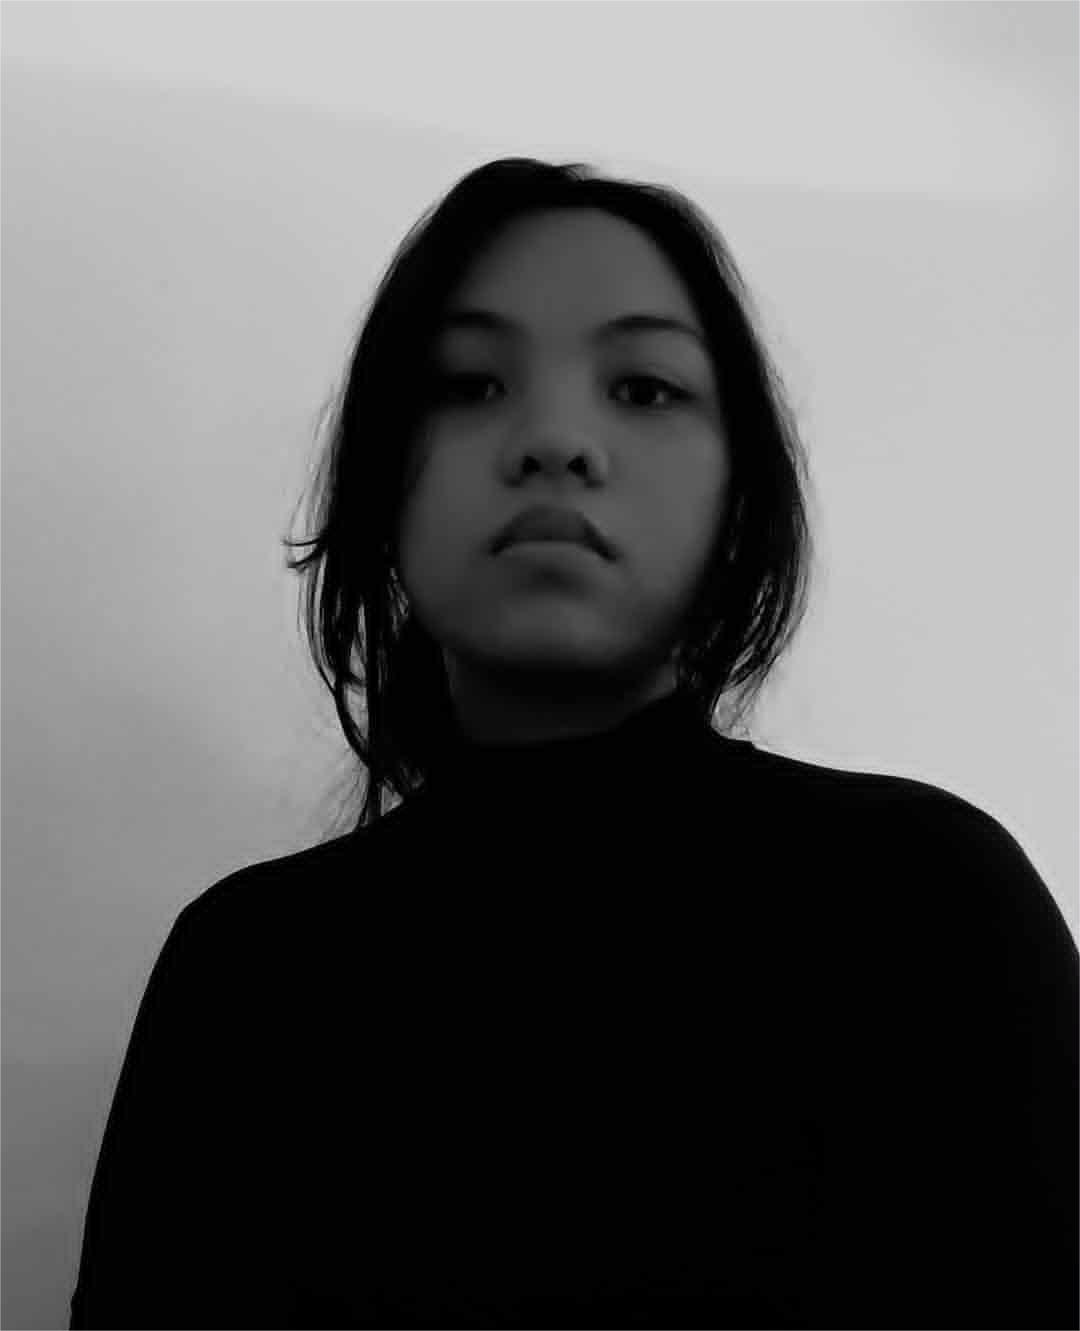
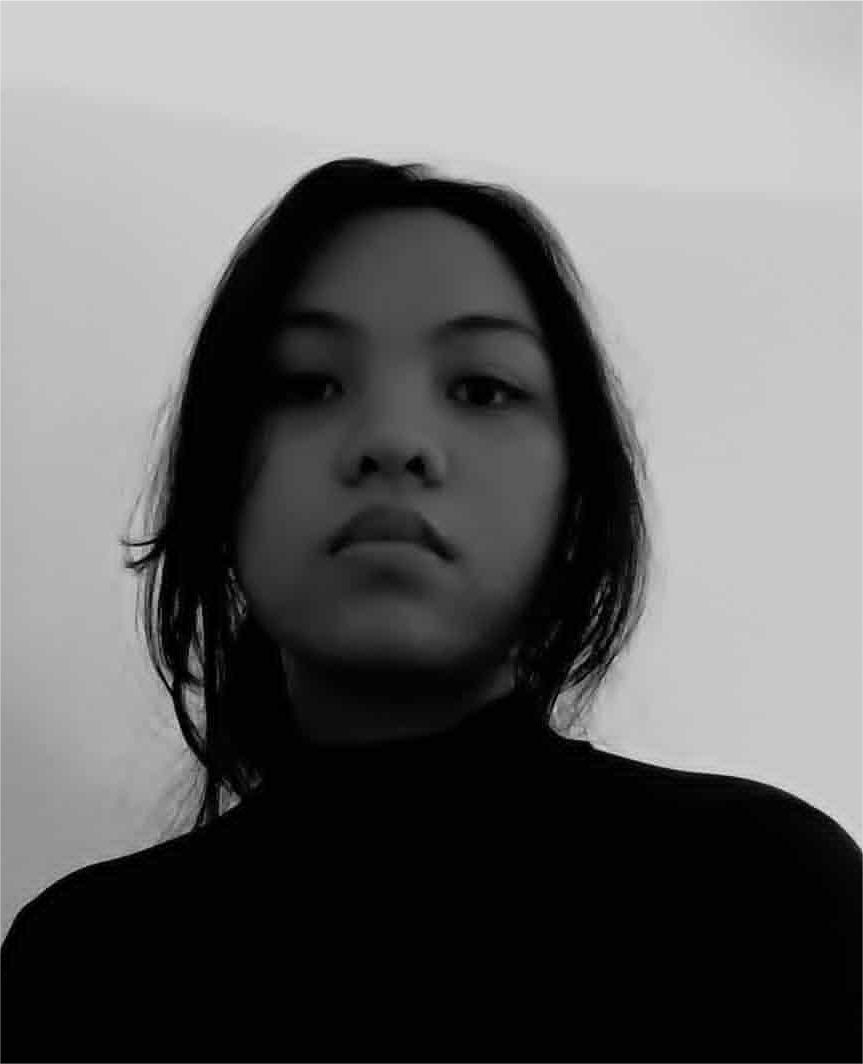
updated code

Changed region(s): [[0.0, 0.093, 1.0, 1.0], [0.5724, 0.6203, 0.6025, 0.6513], [0.0, 0.4652, 0.0301, 0.4962]]

diff --git a/portfolio/components/about.tsx b/portfolio/components/about.tsx
@@ -1,5 +1,8 @@
 "use client";
 
+import React from "react";
+import Image from "next/image";
+
 export default function About() {
   return (
     <section
@@ -31,23 +34,27 @@ export default function About() {
                 Personal Background
               </h3>
               <span className="text-[10px] md:text-xs text-white/40">
-                LEVEL 6
+                LEVEL 20
               </span>
             </div>
 
-            <div className="relative overflow-hidden rounded-xl border border-white/10 bg-black/40 h-40 md:h-48 flex items-center justify-center">
-              <span className="text-white/30 text-xs md:text-sm">
-                Profile Image
-              </span>
+            <div className="relative overflow-hidden rounded-xl border border-white/10 bg-black/40 h-40 md:h-48">
+              <Image
+                src="/profile.jpg"
+                alt="Profile"
+                fill
+                className="object-cover"
+                priority
+              />
             </div>
 
             <div className="flex flex-col gap-3 text-xs md:text-sm text-white/70">
               {[
-                ["Age", "—"],
-                ["Birthday", "—"],
+                ["Age", "20"],
+                ["Birthday", "August 2005"],
                 ["Location", "Philippines"],
-                ["Email", "reanne@email.com"],
-                ["Role", "Web Developer"],
+                ["Email", "reannemartinez18@gmail.com"],
+                ["Role", "Full-Stack Developer"],
               ].map(([label, value]) => (
                 <div key={label} className="flex justify-between">
                   <span className="text-white/40">{label}</span>
@@ -72,10 +79,10 @@ export default function About() {
 
             <div className="flex flex-col gap-4">
               {[
-                { label: "Coding", value: 85 },
-                { label: "Design", value: 70 },
-                { label: "Tools", value: 65 },
-                { label: "Communication", value: 80 },
+                { label: "Coding", value: 75 },
+                { label: "Design", value: 85 },
+                { label: "Tools", value: 80 },
+                { label: "Communication", value: 85 },
               ].map((skill) => (
                 <div key={skill.label} className="flex flex-col gap-1">
                   <div className="flex justify-between text-[11px] md:text-xs text-white/60">
